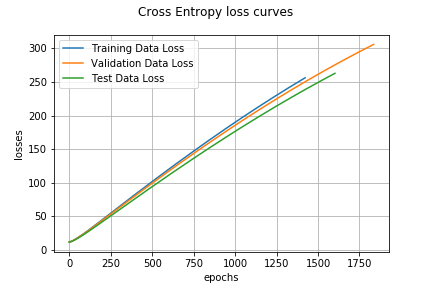
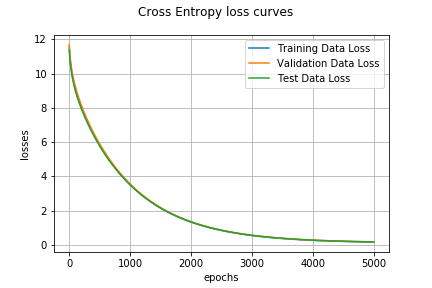
Fixed plotting problem of SGD

Changed region(s): [[0.0301, 0.125, 0.9028, 0.9375]]

diff --git a/a1/Part3.py b/a1/Part3.py
@@ -493,11 +493,11 @@ def SGD():
         weight_train = [weight_train]
         bias_train = [bias_train]
         accuracy_train10.append(accuracy_calculation(weight_train, bias_train, trainData, trainTarget)[0])
-        loss_train10.append(MSE(weight_train, bias_train, trainData, trainTarget, 0))
+        loss_train10.append(crossEntropyLoss(weight_train, bias_train, trainData, trainTarget, 0))
         accuracy_valid10.append(accuracy_calculation(weight_train, bias_train, validData, validTarget)[0])
-        loss_valid10.append(MSE(weight_train, bias_train, validData, validTarget, 0))
+        loss_valid10.append(crossEntropyLoss(weight_train, bias_train, validData, validTarget, 0))
         accuracy_test10.append(accuracy_calculation(weight_train, bias_train, testData, testTarget)[0])
-        loss_test10.append(MSE(weight_train, bias_train, testData, testTarget, 0))
+        loss_test10.append(crossEntropyLoss(weight_train, bias_train, testData, testTarget, 0))
     end10 = time.time()
 
     session.close()
@@ -572,11 +572,11 @@ def SGD():
         weight_train = [weight_train]
         bias_train = [bias_train]
         accuracy_train11.append(accuracy_calculation(weight_train, bias_train, trainData, trainTarget)[0])
-        loss_train11.append(MSE(weight_train, bias_train, trainData, trainTarget, 0))
+        loss_train11.append(crossEntropyLoss(weight_train, bias_train, trainData, trainTarget, 0))
         accuracy_valid11.append(accuracy_calculation(weight_train, bias_train, validData, validTarget)[0])
-        loss_valid11.append(MSE(weight_train, bias_train, validData, validTarget, 0))
+        loss_valid11.append(crossEntropyLoss(weight_train, bias_train, validData, validTarget, 0))
         accuracy_test11.append(accuracy_calculation(weight_train, bias_train, testData, testTarget)[0])
-        loss_test11.append(MSE(weight_train, bias_train, testData, testTarget, 0))
+        loss_test11.append(crossEntropyLoss(weight_train, bias_train, testData, testTarget, 0))
     end11 = time.time()
 
     session.close()
@@ -601,11 +601,11 @@ def SGD():
         weight_train = [weight_train]
         bias_train = [bias_train]
         accuracy_train12.append(accuracy_calculation(weight_train, bias_train, trainData, trainTarget)[0])
-        loss_train12.append(MSE(weight_train, bias_train, trainData, trainTarget, 0))
+        loss_train12.append(crossEntropyLoss(weight_train, bias_train, trainData, trainTarget, 0))
         accuracy_valid12.append(accuracy_calculation(weight_train, bias_train, validData, validTarget)[0])
-        loss_valid12.append(MSE(weight_train, bias_train, validData, validTarget, 0))
+        loss_valid12.append(crossEntropyLoss(weight_train, bias_train, validData, validTarget, 0))
         accuracy_test12.append(accuracy_calculation(weight_train, bias_train, testData, testTarget)[0])
-        loss_test12.append(MSE(weight_train, bias_train, testData, testTarget, 0))
+        loss_test12.append(crossEntropyLoss(weight_train, bias_train, testData, testTarget, 0))
     end12 = time.time()
 
     session.close()
@@ -630,11 +630,11 @@ def SGD():
         weight_train = [weight_train]
         bias_train = [bias_train]
         accuracy_train13.append(accuracy_calculation(weight_train, bias_train, trainData, trainTarget)[0])
-        loss_train13.append(MSE(weight_train, bias_train, trainData, trainTarget, 0))
+        loss_train13.append(crossEntropyLoss(weight_train, bias_train, trainData, trainTarget, 0))
         accuracy_valid13.append(accuracy_calculation(weight_train, bias_train, validData, validTarget)[0])
-        loss_valid13.append(MSE(weight_train, bias_train, validData, validTarget, 0))
+        loss_valid13.append(crossEntropyLoss(weight_train, bias_train, validData, validTarget, 0))
         accuracy_test13.append(accuracy_calculation(weight_train, bias_train, testData, testTarget)[0])
-        loss_test13.append(MSE(weight_train, bias_train, testData, testTarget, 0))
+        loss_test13.append(crossEntropyLoss(weight_train, bias_train, testData, testTarget, 0))
     end13 = time.time()
 
     session.close()

diff --git a/a1/starter.py b/a1/starter.py
@@ -149,8 +149,13 @@ def buildGraph(loss="MSE", beta1=0.9, beta2=0.999, eps=1e-08):
         return W, b, x, y, reg, y_hat, loss, optimizer
 
     elif loss == "CE":
-        y_hat = 1 / (1 + tf.math.exp(-(x @ W + b)))
+        '''y_hat = 1 / (1 + tf.math.exp(-(x @ W + b)))
         ce_loss = tf.reduce_mean(-y * tf.math.log(y_hat) - (1 - y) * tf.math.log(1 - y_hat))
+        wd_loss = reg * tf.nn.l2_loss(W)
+        loss = ce_loss + wd_loss
+        '''
+        y_hat = x @ W + b
+        ce_loss = tf.reduce_mean(tf.nn.sigmoid_cross_entropy_with_logits(labels=y, logits=y_hat))
         wd_loss = reg * tf.nn.l2_loss(W)
         loss = ce_loss + wd_loss
 
